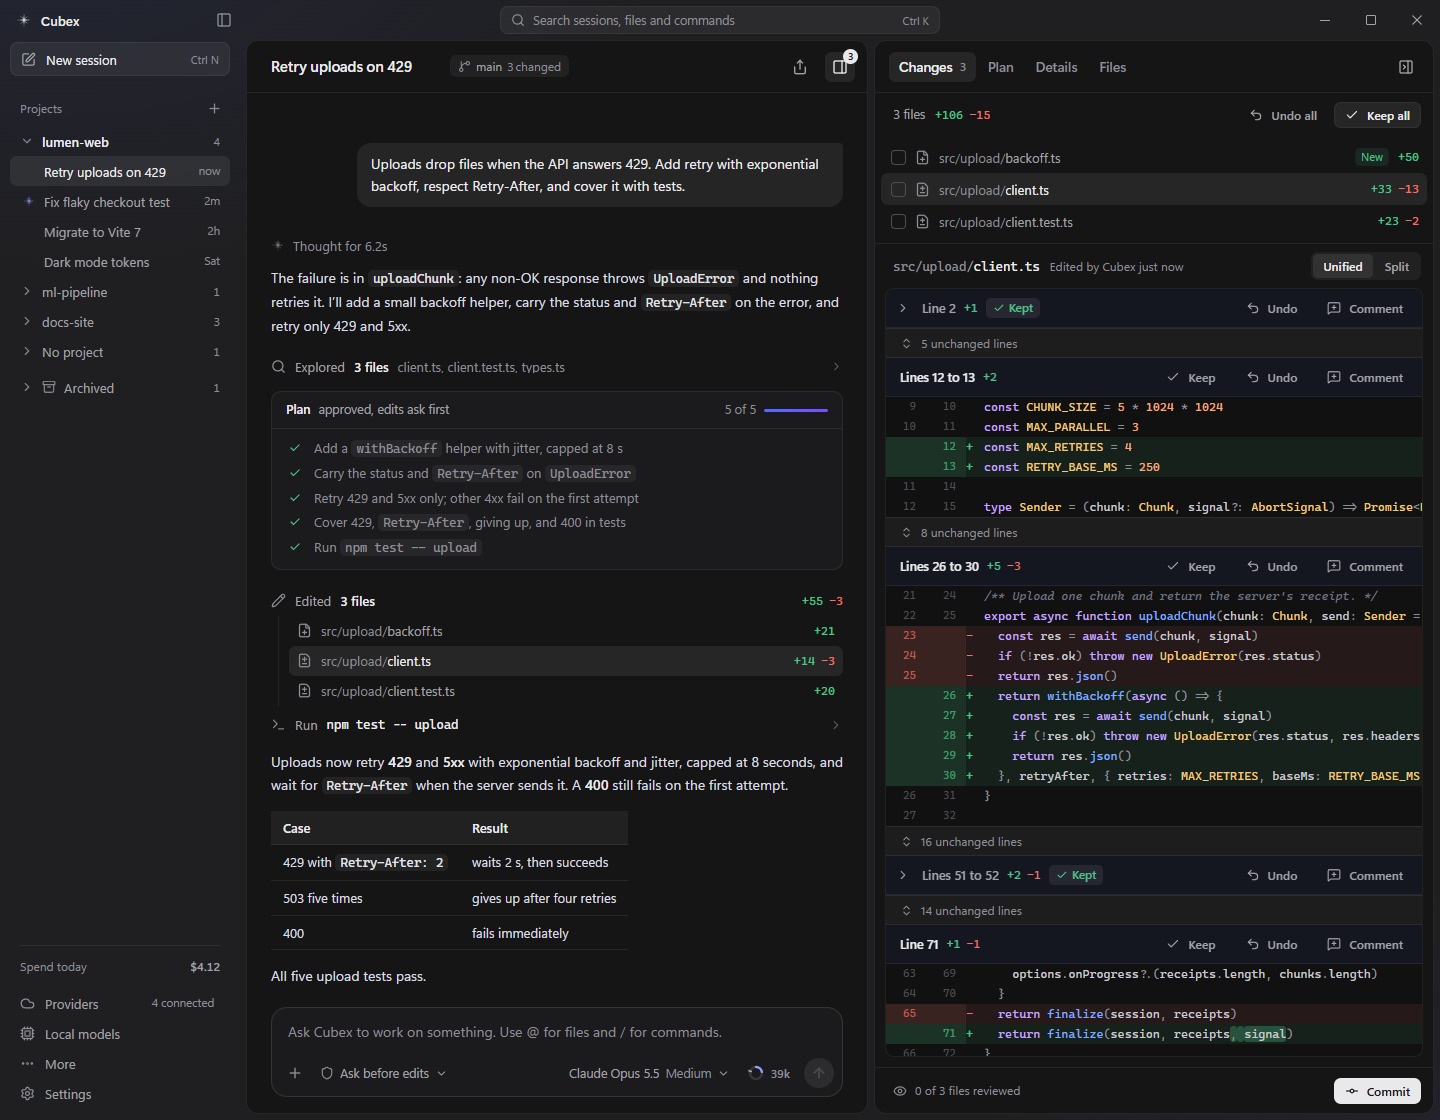
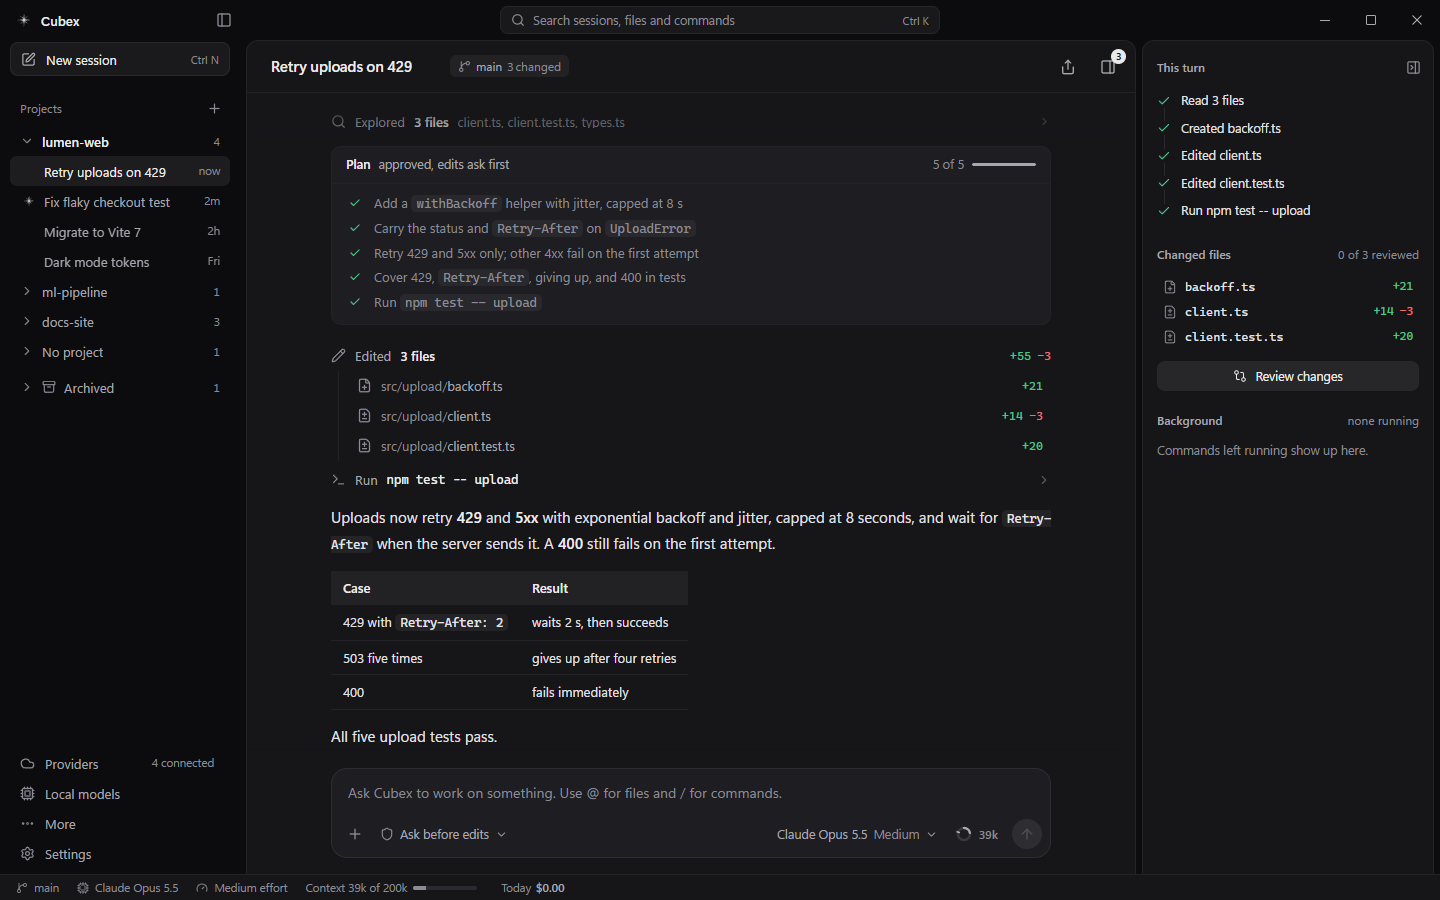
README: describe the 0.3.0 window and refresh the screenshots

diff --git a/README.md b/README.md
@@ -24,7 +24,7 @@ and review every change it makes before it lands.
 <p align="center">
   <picture>
     <source media="(prefers-color-scheme: dark)" srcset="docs/images/cubex-dark.png">
-    <img src="docs/images/cubex-light.png" width="920" alt="Cubex with a conversation about retrying uploads on the left and a hunk by hunk review of the three edited files on the right.">
+    <img src="docs/images/cubex-light.png" width="920" alt="Cubex with a finished turn about retrying uploads: the conversation in the middle, the run column on the right with the steps of the turn and the three changed files, and the status bar along the bottom.">
   </picture>
 </p>
 
@@ -32,6 +32,11 @@ Cubex is a desktop app for working with a coding agent on your own code. You cho
 from a cloud provider with your own API key or from a runtime on your machine such as Ollama. Cubex reads
 your project, edits files, runs commands and searches the web when you let it, and shows each change as a
 diff that you can keep, undo or comment on, one hunk at a time, before anything is committed.
+
+The window keeps the run in view: a column beside the conversation lists the steps of the turn, the files it
+changed and the commands still running, a status bar along the bottom shows the branch, the model, the context in
+use and what you spent today, and when the agent needs you, the question sits inside the message box. Colour is kept
+for what it means: green and red for lines added and removed, and an amber shield when Cubex is waiting for you.
 
 There is no account, no Cubex server and no telemetry. API keys live in your operating system's credential
 store, and conversations stay in a local database.
